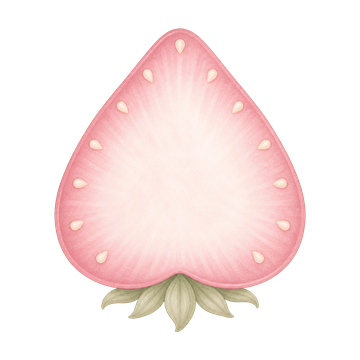
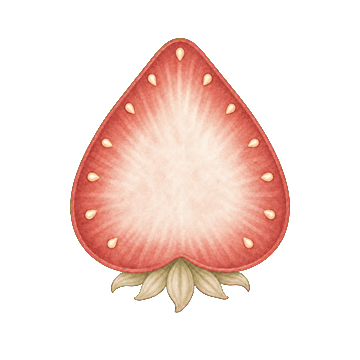
Refine achievement gacha and shop controls

diff --git a/app.js b/app.js
@@ -896,11 +896,11 @@ function renderAchievements() {
       </div>
       <article class="gacha-card ${gachaAnimation}">
         <div class="gacha-title">
-          <strong>莓莓好运扭蛋机</strong>
+          <strong>好运扭蛋机</strong>
           <span>机会 ${progress.available} 次</span>
         </div>
         <div class="gacha-machine-wrap">
-          <img class="gacha-machine" src="./assets/gacha-machine-cutout.png" alt="莓莓好运扭蛋机" />
+          <img class="gacha-machine" src="./assets/gacha-machine-cutout.png" alt="好运扭蛋机" />
           <i class="gacha-capsule" aria-hidden="true"></i>
         </div>
         <p class="gacha-copy">每完成 5 个任务，获得 1 次抽奖机会</p>

diff --git a/styles-20260523.css b/styles-20260523.css
@@ -2385,6 +2385,12 @@ body {
   padding-right: 42px;
 }
 
+.reward-card .item-delete {
+  padding: 0;
+  line-height: 1;
+  text-align: center;
+}
+
 .card-shell::before {
   display: none;
 }
@@ -3414,8 +3420,13 @@ body:has(.timer-shell) {
 }
 
 .gacha-title strong {
-  color: var(--berry-dark);
-  font-size: 1rem;
+  padding: 5px 11px;
+  border-radius: 999px;
+  background: var(--berry);
+  color: #fff;
+  font-size: 0.82rem;
+  font-weight: 900;
+  white-space: nowrap;
 }
 
 .gacha-title span {
